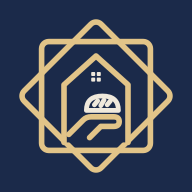
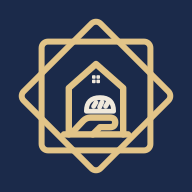
Refined mark, calendar reminders, invite after logging, offline playbook
- Mark redrawn: house sits inside the star on its own ground line, lighter
  lines; heavier-weight version for icons, nav bar, footer and pull indicator
- Home copy: cut 'Her name means deliverance' and 'the way she would have
  fed you'; dedication to Najat Ihsane stays in hero and footer
- dar-najat-days.ics: yearly reminders for 14 October and 28 June, with an
  alert at 9am the day before; buttons on home and after logging
- Log: invite card after a successful log (share sheet, copy fallback)
- sw.js: pages network-first with offline fallback; playbook works without signal

Claude-Session: https://claude.ai/code/session_018uPt8pvd6nLUstzXoduGjP

diff --git a/log.html b/log.html
@@ -139,6 +139,20 @@
   .f-count { font-size: 13px; color: rgba(36,31,24,0.55); margin-top: 8px; }
   .empty { color: rgba(36,31,24,0.55); font-style: italic; padding: 8px 0; }
 
+  .invite { background: var(--navy); color: var(--ivory); border-radius: 16px; padding: 24px; margin-bottom: 26px; }
+  .invite .invite-k { font-size: 12px; font-weight: 800; letter-spacing: 0.2em; text-transform: uppercase; color: var(--gold); margin: 0 0 6px; }
+  .invite h2 { font-family: var(--display); font-weight: 700; font-size: 26px; line-height: 1.2; margin: 0 0 8px; color: var(--ivory); }
+  .invite p { margin: 0; color: var(--on-navy); font-size: 16px; }
+  .invite-row { display: flex; flex-wrap: wrap; gap: 10px 18px; align-items: center; margin-top: 18px; }
+  .invite-btn {
+    font-family: var(--body); font-weight: 800; font-size: 16px; color: var(--navy); background: var(--gold);
+    border: 0; border-radius: 999px; padding: 14px 24px; cursor: pointer;
+  }
+  .invite-btn:focus-visible { outline: 3px solid var(--ivory); outline-offset: 3px; }
+  .invite-sec { color: var(--gold); font-weight: 700; font-size: 15px; }
+  .invite .invite-copy { font-size: 14px; margin-top: 10px; color: var(--gold); }
+  .invite .invite-copy:empty { display: none; }
+
   @media (max-width: 540px) {
     .row { flex-direction: column; gap: 0; }
     .row .field.state { flex-basis: auto; }
@@ -150,7 +164,7 @@
 
   <div class="topbar">
     <div class="wrap">
-      <a class="brand" href="./"><img src="mark-on-navy.svg" alt=""><span>DAR NAJAT</span></a>
+      <a class="brand" href="./"><img src="mark-small.svg" alt=""><span>DAR NAJAT</span></a>
       <nav class="nav" aria-label="Main">
         <a href="playbook.html">Playbook</a>
         <a href="log.html" aria-current="page">Log</a>
@@ -171,6 +185,17 @@
     <div class="wrap">
 
       <div id="banner" class="banner hide"></div>
+
+      <div class="invite" id="invite" hidden>
+        <p class="invite-k">Logged. Thank you.</p>
+        <h2>Bring someone next time</h2>
+        <p>Send the playbook to one person who might come with you next time.</p>
+        <div class="invite-row">
+          <button type="button" class="invite-btn" id="share">Invite someone</button>
+          <a class="invite-sec" href="dar-najat-days.ics">Remind me on her two days</a>
+        </div>
+        <p class="invite-copy" id="copy-status" aria-live="polite"></p>
+      </div>
 
       <div class="card">
         <h2>The details</h2>
@@ -255,7 +280,7 @@
   </main>
 
   <footer>
-    <a class="home-link" href="./" aria-label="Home"><img src="mark-on-navy-deep.svg" alt=""><span>Home</span></a>
+    <a class="home-link" href="./" aria-label="Home"><img src="mark-small.svg" alt=""><span>Home</span></a>
     <p class="ar" lang="ar" dir="rtl">دار نجاة</p>
     <p>Built in memory of Najat Ihsane.</p>
     <p>Meant to be carried by many hands.</p>
@@ -485,7 +510,8 @@
         try {
           var res = await client.from("feedings").insert([payload]);
           if (res.error) throw res.error;
-          showBanner("ok", "Logged. Thank you for feeding someone in their name.");
+          banner.className = "banner hide";
+          showInvite();
           await loadList();
         } catch (err) {
           showBanner("err", "Couldn't save. " + (err.message || "Try again."));
@@ -507,7 +533,7 @@
       });
       submitBtn.disabled = false;
       submitBtn.textContent = "Log this feeding";
-      window.scrollTo({ top: 0, behavior: "smooth" });
+      (invite.hidden ? document.body : invite).scrollIntoView({ behavior: "smooth", block: "start" });
     });
 
     refreshBtn.addEventListener("click", async function () {
@@ -516,6 +542,31 @@
       await loadList();
       refreshBtn.classList.remove("spin");
       refreshBtn.disabled = false;
+    });
+
+    // ---- After logging: invite one more person
+    var invite = document.getElementById("invite");
+    var copyStatus = document.getElementById("copy-status");
+    var SHARE = {
+      title: "Dar Najat",
+      text: "I just fed someone in a loved one's name with Dar Najat. Want to do the next one with me? The playbook takes five minutes to read.",
+      url: "https://charity.safjob.com/playbook.html"
+    };
+    function showInvite() {
+      invite.hidden = false;
+      copyStatus.textContent = "";
+    }
+    document.getElementById("share").addEventListener("click", async function () {
+      if (navigator.share) {
+        try { await navigator.share(SHARE); return; } catch (e) { if (e && e.name === "AbortError") return; }
+      }
+      var msg = SHARE.text + " " + SHARE.url;
+      try {
+        await navigator.clipboard.writeText(msg);
+        copyStatus.textContent = "Invite copied. Paste it into a text or email.";
+      } catch (e) {
+        copyStatus.textContent = msg;
+      }
     });
 
     window.darRefresh = loadList;  // pull to refresh reloads the list in place

diff --git a/index.html b/index.html
@@ -108,6 +108,17 @@
   }
   .day-note { margin: 0; }
 
+  .cal { margin-top: 26px; display: grid; gap: 8px; justify-items: start; }
+  .cal-btn {
+    display: inline-flex; align-items: center; gap: 8px; text-decoration: none;
+    background: var(--navy); color: var(--ivory); font-weight: 800; font-size: 15px;
+    padding: 13px 22px; border-radius: 999px;
+  }
+  .cal-btn:hover { background: var(--navy-soft); }
+  .cal-btn:focus-visible { outline: 3px solid var(--navy); outline-offset: 3px; }
+  .cal-note { font-size: 14px; color: var(--muted); margin: 0; }
+  .tile a { color: var(--gold); font-weight: 700; font-size: 13px; }
+
   @media (max-width: 540px) {
     .day { flex-direction: column; gap: 6px; }
     .day-date { flex-basis: auto; }
@@ -119,7 +130,7 @@
 
   <div class="topbar">
     <div class="wrap">
-      <a class="brand" href="./" aria-current="page"><img src="mark-on-navy.svg" alt=""><span>DAR NAJAT</span></a>
+      <a class="brand" href="./" aria-current="page"><img src="mark-small.svg" alt=""><span>DAR NAJAT</span></a>
       <nav class="nav" aria-label="Main">
         <a href="playbook.html">Playbook</a>
         <a href="log.html">Log</a>
@@ -134,7 +145,7 @@
       <p class="name-ar reveal" lang="ar" dir="rtl">نجاة إحسان</p>
       <h1 class="name reveal">Najat Ihsane</h1>
       <p class="dates reveal">14 October 1958 &ndash; 28 June 2024</p>
-      <p class="thesis reveal">Her name means <b>deliverance</b>. Dar Najat is the house built in it, a place to feed someone who has none.</p>
+      <p class="thesis reveal">Dar Najat is a house built in her name, a place to feed someone who has none.</p>
     </div>
   </header>
 
@@ -162,7 +173,7 @@
       <div class="days7" id="days7" aria-label="Seven-day forecast"></div>
 
       <div class="tiles2">
-        <div class="tile"><span class="n" id="anchor-n">&nbsp;</span><span class="t" id="anchor-t">&nbsp;</span></div>
+        <div class="tile"><span class="n" id="anchor-n">&nbsp;</span><span class="t" id="anchor-t">&nbsp;</span><a href="dar-najat-days.ics">Remind me every year</a></div>
         <div class="tile"><span class="n" id="count-f">&ndash;</span><span class="t" id="count-f-t">feedings logged</span></div>
         <div class="tile"><span class="n" id="count-p">&ndash;</span><span class="t">people fed, about</span></div>
       </div>
@@ -186,12 +197,16 @@
         <div class="days reveal">
           <div class="day">
             <div class="day-date">14 October<span>Her birthday</span></div>
-            <p class="day-note">The day she was born. Mark it by feeding someone, the way she would have fed you.</p>
+            <p class="day-note">The day she was born. Mark it by feeding someone in her name.</p>
           </div>
           <div class="day">
             <div class="day-date">28 June<span>The day she left</span></div>
             <p class="day-note">The day she passed. A meal given on this day turns grief into something that fills a stomach.</p>
           </div>
+        </div>
+        <div class="cal reveal">
+          <a class="cal-btn" href="dar-najat-days.ics">Add both days to my calendar</a>
+          <p class="cal-note">Adds 14 October and 28 June as yearly reminders, with a nudge the day before.</p>
         </div>
       </div>
     </section>
@@ -216,7 +231,7 @@
   </main>
 
   <footer>
-    <a class="home-link" href="#top" aria-label="Back to top"><img src="mark-on-navy-deep.svg" alt=""><span>Back to top</span></a>
+    <a class="home-link" href="#top" aria-label="Back to top"><img src="mark-small.svg" alt=""><span>Back to top</span></a>
     <p class="ar" lang="ar" dir="rtl">دار نجاة</p>
     <p>Built in memory of Najat Ihsane.</p>
     <p>Meant to be carried by many hands.</p>

diff --git a/sw.js b/sw.js
@@ -1,0 +1,56 @@
+/* Dar Najat offline support.
+   Pages: try the network first so new deploys show up right away, and fall back
+   to the saved copy when there's no signal. Other files (styles, marks, icons):
+   serve the saved copy and refresh it in the background.
+   Weather and the database are never cached here; they always go live.
+   Bump VERSION when this file's own logic changes. */
+var VERSION = "dn-v1";
+var CORE = [
+  "./", "index.html", "playbook.html", "log.html",
+  "site.css", "ptr.js", "manifest.webmanifest",
+  "mark-on-navy.svg", "mark-small.svg", "favicon.svg", "dar-najat-days.ics"
+];
+
+self.addEventListener("install", function (e) {
+  e.waitUntil(caches.open(VERSION).then(function (c) { return c.addAll(CORE); }).then(function () { return self.skipWaiting(); }));
+});
+
+self.addEventListener("activate", function (e) {
+  e.waitUntil(
+    caches.keys().then(function (keys) {
+      return Promise.all(keys.filter(function (k) { return k !== VERSION; }).map(function (k) { return caches.delete(k); }));
+    }).then(function () { return self.clients.claim(); })
+  );
+});
+
+self.addEventListener("fetch", function (e) {
+  var req = e.request;
+  if (req.method !== "GET") return;
+  var url = new URL(req.url);
+  if (url.origin !== self.location.origin) return;   // fonts, weather, database: not ours to cache
+
+  if (req.mode === "navigate" || req.destination === "document") {
+    e.respondWith(
+      fetch(req).then(function (res) {
+        var copy = res.clone();
+        caches.open(VERSION).then(function (c) { c.put(req, copy); });
+        return res;
+      }).catch(function () {
+        return caches.match(req, { ignoreSearch: true }).then(function (hit) {
+          return hit || caches.match("playbook.html");
+        });
+      })
+    );
+    return;
+  }
+
+  e.respondWith(
+    caches.match(req).then(function (hit) {
+      var live = fetch(req).then(function (res) {
+        if (res.ok) { var copy = res.clone(); caches.open(VERSION).then(function (c) { c.put(req, copy); }); }
+        return res;
+      }).catch(function () { return hit; });
+      return hit || live;
+    })
+  );
+});

diff --git a/playbook.html b/playbook.html
@@ -55,6 +55,7 @@
     margin: 0 0 18px;
   }
   .hero p { color: rgba(240, 233, 220, 0.82); max-width: 40ch; margin: 0 auto; }
+  .hero .offline { font-size: 14px; color: var(--gold); margin-top: 14px; }
 
   /* Steps */
   main { padding: 8px 0 0; }
@@ -126,7 +127,7 @@
 
   <div class="topbar">
     <div class="wrap">
-      <a class="brand" href="./"><img src="mark-on-navy.svg" alt=""><span>DAR NAJAT</span></a>
+      <a class="brand" href="./"><img src="mark-small.svg" alt=""><span>DAR NAJAT</span></a>
       <nav class="nav" aria-label="Main">
         <a href="playbook.html" aria-current="page">Playbook</a>
         <a href="log.html">Log</a>
@@ -140,6 +141,7 @@
       <p class="eyebrow">The Playbook</p>
       <h1>Run a feeding in their name</h1>
       <p>Five steps. You can do the whole thing in an afternoon, alone or with a few people. Keep it simple. Showing up matters more than scale.</p>
+      <p class="offline">Once you've opened it, this playbook works without signal.</p>
     </div>
   </header>
 
@@ -264,7 +266,7 @@
   </main>
 
   <footer>
-    <a class="home-link" href="./" aria-label="Home"><img src="mark-on-navy-deep.svg" alt=""><span>Home</span></a>
+    <a class="home-link" href="./" aria-label="Home"><img src="mark-small.svg" alt=""><span>Home</span></a>
     <p class="ar" lang="ar" dir="rtl">دار نجاة</p>
     <p>Built in memory of Najat Ihsane.</p>
     <p>Meant to be carried by many hands.</p>

diff --git a/ptr.js b/ptr.js
@@ -9,7 +9,7 @@
   var el = document.createElement("div");
   el.className = "ptr";
   el.setAttribute("aria-hidden", "true");
-  el.innerHTML = '<img src="mark-on-navy.svg" alt="">';
+  el.innerHTML = '<img src="mark-small.svg" alt="">';
   document.body.appendChild(el);
 
   var live = document.createElement("p");
@@ -68,3 +68,10 @@
     if (pull >= THRESHOLD * 0.5 + 20) run(); else reset();
   });
 })();
+
+/* Save the site for use without signal (see sw.js). */
+if ("serviceWorker" in navigator && (location.protocol === "https:" || location.hostname === "localhost")) {
+  window.addEventListener("load", function () {
+    navigator.serviceWorker.register("sw.js").catch(function () {});
+  });
+}
